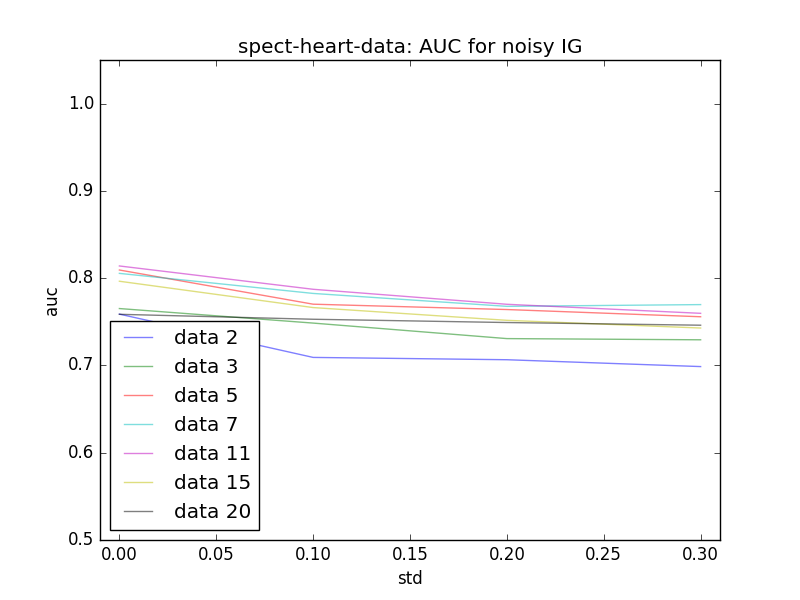
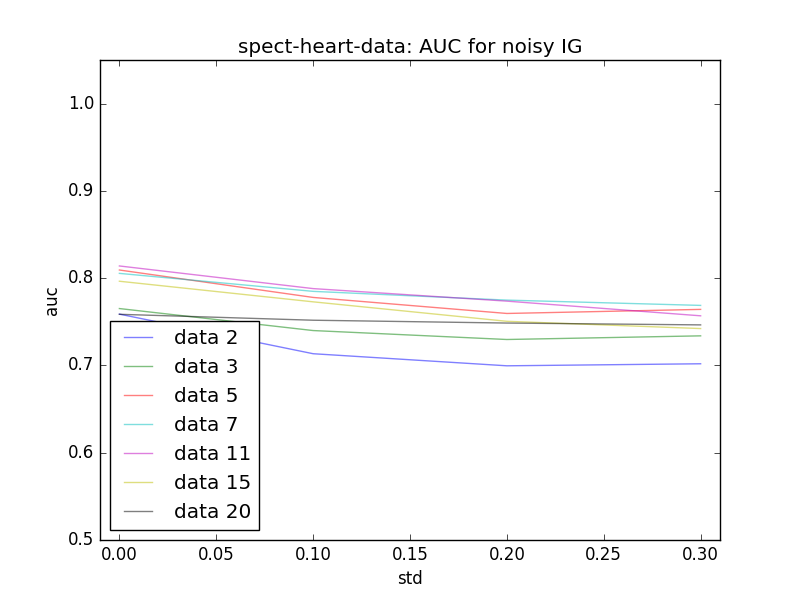
corrected analysis spect

Changed region(s): [[0.1562, 0.45, 0.875, 0.63], [0.8125, 0.6, 0.875, 0.63]]

diff --git a/analysis_spect.py b/analysis_spect.py
@@ -13,7 +13,7 @@ def do_analysis():
     df = CSFSLoader().load_dataset(path)
     target = "Diagnosis"
 
-    Parallel(n_jobs=8)(delayed(_conduct_analysis)(df, target, std, N_features, N_samples, dataset_name) for std in np.linspace(0.00001, 0.3, 4))
+    Parallel(n_jobs=8)(delayed(_conduct_analysis)(df, target, std, N_features, N_samples, dataset_name) for std in np.linspace(0.00001, 0.3, 500))
 
 def evaluate():
     visualise_results(dataset_name, N_features, show_plot=False, N_samples=100)
